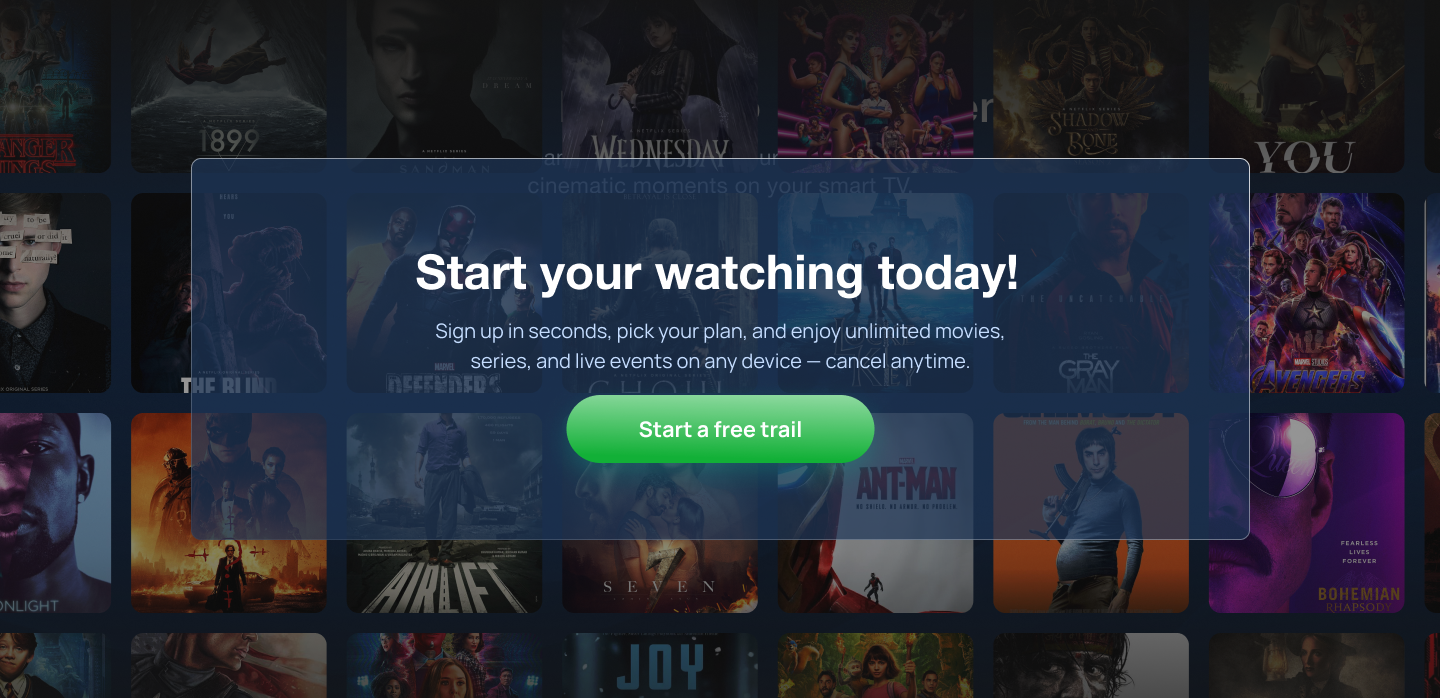
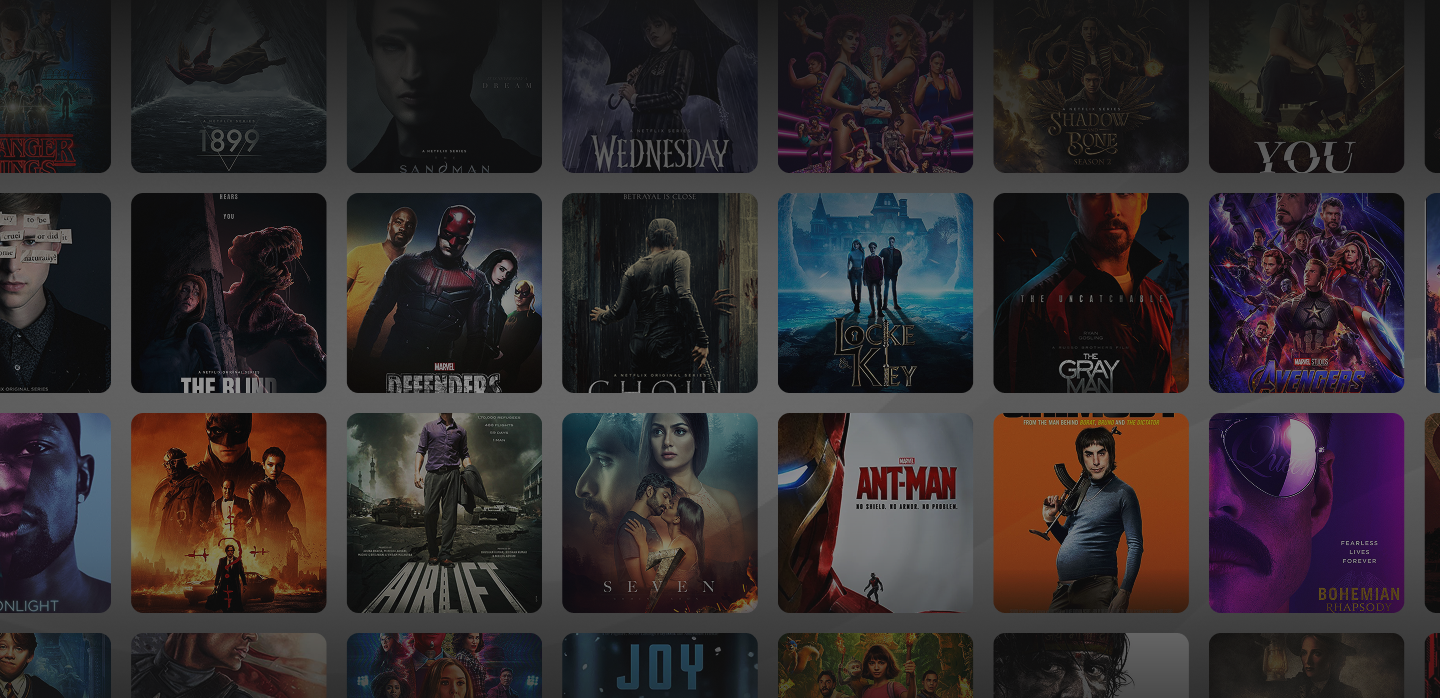
Made the Start Free Trial section of the LandingPage.jsx

diff --git a/src/pages/LandingPage.jsx b/src/pages/LandingPage.jsx
@@ -325,9 +325,45 @@ const LandingPage = () => {
             ))}
           </div>
         </div>
-        <div className="w-screen py-10">
+
+        {/* start free trial section */}
+        <div className="w-screen py-10 relative">
           <img src={free_trial} alt="" className="w-full cursor-pointer" />
+
+          {/* Wrapper */}
+          <div className="absolute top-1/2 left-1/2 -translate-x-1/2 -translate-y-1/2">
+            {/* Lightbox Overlay */}
+            <div className="absolute inset-0 bg-[#112F5A]/80 rounded-lg border border-zinc-400 z-20"></div>
+
+            {/* Card Content */}
+            <div
+              className="relative flex flex-col items-center justify-center gap-4 
+                    py-10 px-2 sm:py-20 sm:px-18 
+                    w-[90vw] sm:w-max 
+                    rounded-lg border border-zinc-400 z-30"
+            >
+              <h3 className="text-xl sm:text-4xl font-semibold text-center">
+                Start your watching today!
+              </h3>
+
+              <p className="text-center text-[#C5DDFF] w-full sm:w-[58%] text-sm sm:text-base">
+                Sign up in seconds, pick your plan, and enjoy unlimited movies,
+                series, and live events on any device — cancel anytime.
+              </p>
+
+              <button
+                className="w-full sm:w-[308px] h-[55px] sm:h-[68px] rounded-[500px] 
+                   bg-[#12B037] text-white text-base sm:text-[21.54px] font-medium 
+                   shadow-[0_11px_29px_0_rgba(20,169,144,0.3)] 
+                   hover:opacity-90 transition-opacity duration-200"
+                onClick={handleBtn}
+              >
+                Start a free trail
+              </button>
+            </div>
+          </div>
         </div>
+
         <footer className="w-screen bg-[#112F5A] py-10 text-white">
           <div className="px-6 lg:px-12">
             <div className="flex flex-col md:flex-row justify-between items-start border-b border-gray-600 pb-10 mb-6">
